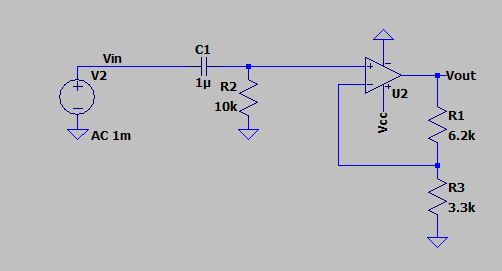
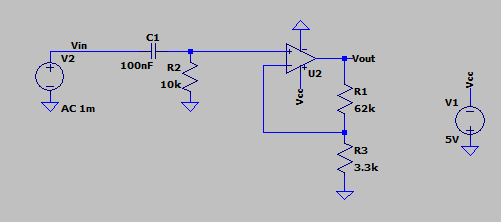
Part 2 Section 2: update active high-pass values; add passive-vs-active and corner-choice discussion
- Swap the active high-pass schematic (C1=100nF, R1=62k, R3=3.3k): gain ~19.8
  (25.9 dB), corner ~159 Hz; both active filters now corner at 159 Hz.
- Add a passive-vs-active comparison (gain, loading/output impedance,
  selectivity, cost) referencing the Part 1 159 Hz filters.
- Add a note that setting the corner at the wanted signal's frequency loses
  ~30% of its amplitude even ideally, so the corner must sit away from it.

diff --git a/Part2_Section2.md b/Part2_Section2.md
@@ -58,13 +58,13 @@ This is a non-inverting amplifier with an AC-coupled input.
 The signal passes through the series capacitor $C_1$ into $R_2$, which returns to ground; together they form a passive high-pass at the input that blocks DC and very low frequencies before the amplifier.
 The opamp is then wired as a non-inverting amplifier, so the feedback network $R_1$ (from the output) and $R_3$ (to ground) sets a passband gain of
 
-$$ \frac{V_\text{out}}{V_\text{in}} = 1 + \frac{R_1}{R_3} = 1 + \frac{6.2\text{k}}{3.3\text{k}} \approx 2.9 \quad (\approx 9.2\text{ dB}). $$
+$$ \frac{V_\text{out}}{V_\text{in}} = 1 + \frac{R_1}{R_3} = 1 + \frac{62\text{k}}{3.3\text{k}} \approx 19.8 \quad (\approx 25.9\text{ dB}). $$
 
 The high-pass corner is set by the input network:
 
-$$ f_c = \frac{1}{2\pi R_2 C_1} = \frac{1}{2\pi (10\text{k})(1\mu\text{F})} \approx 16\text{ Hz}. $$
+$$ f_c = \frac{1}{2\pi R_2 C_1} = \frac{1}{2\pi (10\text{k})(100\text{nF})} \approx 159\text{ Hz}. $$
 
-Below about 16 Hz the gain falls off at $+20$ dB/decade with the phase leading towards $+90°$ (a first-order high-pass), and above it the response is flat at the passband gain of $\approx 2.9$ until the opamp's own gain-bandwidth limit eventually rolls it off at high frequency.
+Below about 159 Hz the gain falls off at $+20$ dB/decade with the phase leading towards $+90°$ (a first-order high-pass), and above it the response is flat at the passband gain of $\approx 19.8$ until the opamp's own gain-bandwidth limit eventually rolls it off at high frequency.
 
 ### Active low-pass filter
 
@@ -90,7 +90,7 @@ Measure the transfer function $T(f) = V_\text{out}/V_\text{in}$ of each filter a
 3. Sweep the frequency in logarithmically-spaced steps (about 5--10 points per decade) from 10 Hz to 100 kHz.
 4. At each frequency record the amplitudes of $V_\text{in}$ and $V_\text{out}$, compute $|T| = |V_\text{out}|/|V_\text{in}|$ and convert it to decibels with $20\log_{10}|T|$.
 5. Read the phase from the time shift $\Delta t$ between the zero-crossings of the two waveforms, $\arg(T) = 360\,f\,\Delta t$ (an output that lags the input is a negative phase; remember the low-pass also inverts, adding $180°$).
-6. Take extra, closely-spaced points around each corner frequency ($\approx 16$ Hz for the high-pass, $\approx 159$ Hz for the low-pass) so the knee is captured accurately, and plot each point as you go.
+6. Take extra, closely-spaced points around the corner frequency ($\approx 159$ Hz for both filters) so the knee is captured accurately, and plot each point as you go.
 7. Plot $|T|$ in dB and $\arg(T)$ in degrees against frequency on a logarithmic axis.
 
 - [ ] Measure and plot the Bode plot (magnitude and phase) of the active high-pass filter, and confirm its passband gain and corner frequency against the values above.
@@ -98,3 +98,18 @@ Measure the transfer function $T(f) = V_\text{out}/V_\text{in}$ of each filter a
 - [ ] Measure and plot the Bode plot of the active low-pass filter, and confirm its passband gain and corner frequency against the values above.
 
 For each filter, comment on any differences between the measured and predicted responses -- in particular, note where the opamp's finite gain-bandwidth product limits the gain at high frequency.
+
+### Passive versus active filters
+
+Both of these active filters are first-order and both have a corner frequency of $\approx 159$ Hz -- the same corner as the passive RC and RL filters you built in Part 1, which also had a $\pm20$ dB/decade roll-off. Compare their behaviour:
+
+- **Passband gain.** The passive filters can only attenuate: their passband gain is at best 0 dB (unity), because they are made of resistors and reactances that divide the input. The active filters *amplify* in the passband -- $\approx 25.9$ dB for the high-pass and $20$ dB for the low-pass -- because the opamp adds gain set by the feedback resistors, independently of the corner frequency.
+- **Loading and output impedance.** A passive filter's response changes when you connect a load, because the load draws current from the network and its impedance appears in parallel with part of the divider; the source must also supply that current. The active filters drive their output from the opamp, which has a very low output impedance, so the response barely changes with load and the next stage sees a stiff source. They also present a defined input impedance ($R_2$) to the source.
+- **Selectivity (the filtering itself).** Because both are first-order with the same corner, the *shape* of the roll-off is identical -- the active circuit is no more selective than the passive one. What the opamp buys you is gain and buffering, not a steeper transition; for that you would need a higher-order filter.
+- **Cost of the gain.** The active filter needs a powered opamp and is limited at high frequency by the opamp's gain-bandwidth product, whereas an ideal passive filter needs no power. In exchange it removes the loading problems above and can boost a weak signal.
+
+### Choosing the corner frequency
+
+It is tempting, when you want to *pass* a signal at a particular frequency, to set the filter's corner frequency equal to that signal's frequency. **Do not do this.** A first-order filter does not switch cleanly from pass to stop at the corner -- the transition is gradual, and *at* the corner the magnitude is already down to $1/\sqrt{2}\approx0.71$ of the passband value ($-3$ dB, i.e. half the power). Placing the corner on the wanted signal therefore throws away about **30%** of its amplitude even in the ideal case, before any real-component losses, which is clearly suboptimal.
+
+Instead, place the corner well away from the wanted signal so that the signal sits in the flat part of the passband where the gain is essentially constant: for a low-pass keep the corner comfortably *above* the signal, and for a high-pass comfortably *below* it. Leave enough margin (typically a decade or more) that the attenuation of the wanted signal is negligible while the unwanted band is still rejected.